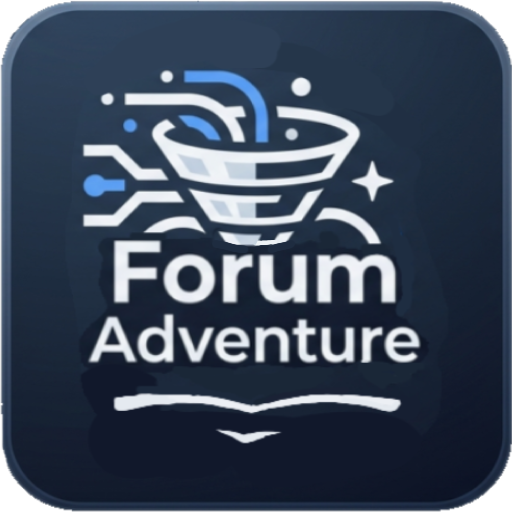
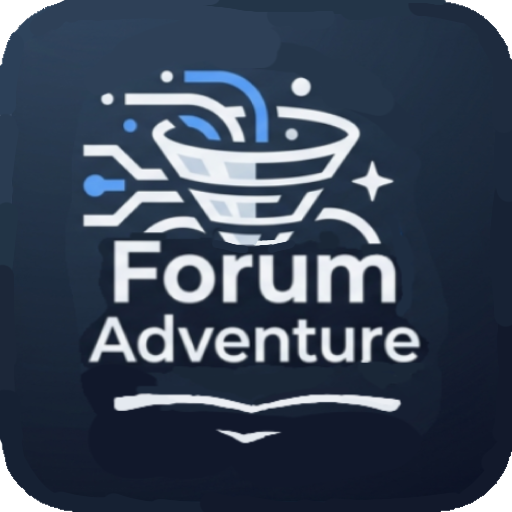
Add files via upload

Changed region(s): [[0.0, 0.0, 1.0, 1.0]]

diff --git a/index.html b/index.html
@@ -924,6 +924,21 @@ body.is-swiping-tabs .post-title {
     </style>
 </head>
 <body>
+    
+    <div id="pwa-install-popup" style="display: none; position: fixed; bottom: 20px; left: 50%; transform: translateX(-50%); background-color: var(--card-bg); border: 1px solid var(--border-color); padding: 16px 20px; border-radius: 16px; box-shadow: 0 10px 25px -5px rgba(0, 0, 0, 0.3); z-index: 9999; width: calc(100% - 40px); max-width: 400px; box-sizing: border-box; align-items: center; justify-content: space-between; gap: 12px; animation: fadeIn 0.4s ease-in-out;">
+    <div style="display: flex; align-items: center; gap: 12px; min-width: 0;">
+        <img src="favicon.png" alt="Logo" style="width: 40px; height: 40px; border-radius: 8px; flex-shrink: 0;">
+        <div style="min-width: 0;">
+            <p style="margin: 0; font-weight: 600; font-size: 14px; color: var(--text-color); white-space: nowrap; overflow: hidden; text-overflow: ellipsis;">Forum Adventure</p>
+            <p style="margin: 2px 0 0 0; font-size: 12px; color: var(--sub-text); white-space: nowrap; overflow: hidden; text-overflow: ellipsis;" data-i18n="pwa_install_desc">Add to ome screen!</p>
+        </div>
+    </div>
+    <div style="display: flex; gap: 8px; flex-shrink: 0;">
+        <button id="pwa-close-btn" style="background: transparent; border: 1px solid var(--border-color); color: var(--sub-text); padding: 6px 12px; border-radius: 20px; font-size: 12px; font-weight: 500; cursor: pointer;">Later</button>
+        <button id="pwa-install-btn" style="background-color: var(--accent-color); border: none; color: white; padding: 6px 16px; border-radius: 20px; font-size: 12px; font-weight: 600; cursor: pointer;">Add now</button>
+    </div>
+</div>
+
 
     <div class="top-bar">
         <div class="sub-links-container">
@@ -1018,6 +1033,8 @@ body.is-swiping-tabs .post-title {
         import_invalid: "File dữ liệu không hợp lệ hoặc bị lỗi!",
         import_empty: "File dữ liệu trống!",
         confirm_import: "Hành động này sẽ ghi đè lên danh sách yêu thích hiện tại. Bạn có chắc chắn muốn tiếp tục?",
+                pwa_install_desc: "Thêm vào màn hình chính!",
+
                 footer_copyright: "© 2026 Forum Adventure",
         footer_author: "Made with ❤️ bởi Ncox | Kết nối cộng đồng diễn đàn",
         footer_terms: "Điều khoản sử dụng & Miễn trừ trách nhiệm",
@@ -1054,6 +1071,8 @@ body.is-swiping-tabs .post-title {
         import_invalid: "Invalid data file or corrupted!",
         import_empty: "Data file is empty!",
         confirm_import: "This will overwrite your current favorites. Do you want to proceed?",
+                pwa_install_desc: "Add to Home screen!",
+
                 footer_copyright: "© 2026 Forum Adventure",
         footer_author: "Made with ❤️ by Ncox | Connecting Forum Communities",
         footer_terms: "Terms of Service & Disclaimer",
@@ -1237,16 +1256,26 @@ updateThemeUI(savedTheme);
                     </div>
                 `;
 
-                // Thêm logic giả lập thanh tiến trình chạy từ 0 đến 95%
-                let progress = 0;
-                const progressBar = document.getElementById('progressBar');
-                window.progressInterval = setInterval(() => {
-                    if (progress < 95) {
-                        progress += Math.random() * 15; // Tốc độ tăng ngẫu nhiên
-                        if (progress > 95) progress = 95;
-                        if (progressBar) progressBar.style.width = `${progress}%`;
-                    }
-                }, 150);
+            // Thêm logic giả lập thanh tiến trình chạy thông minh (0 -> 85 nhanh, 85 -> 95 siêu chậm)
+let progress = 0;
+const progressBar = document.getElementById('progressBar');
+window.progressInterval = setInterval(() => {
+    if (progress < 85) {
+        // Giai đoạn 1: Chạy ngẫu nhiên nhanh đến mốc 85%
+        progress += Math.random() * 15; 
+        if (progress > 85) progress = 85;
+    } else if (progress >= 85 && progress < 95) {
+        // Giai đoạn 2: Hãm phanh từ 85% đến 95% chạy cực chậm để chống cảm giác bị đơ máy
+        progress += Math.random() * 0.4; 
+        if (progress > 95) progress = 95;
+    }
+
+    // Cập nhật thanh tiến trình lên giao diện
+    if (progressBar) progressBar.style.width = `${progress}%`;
+}, 150);
+
+
+
 
                 masterData = { vn: {}, int: {} };
                 const suffix = `?t=${Date.now()}`;
@@ -2268,6 +2297,57 @@ slider.addEventListener('touchend', () => {
     const alertMessage = languages[currentLang]['footer_alert_text'];
     alert(alertMessage);
 }
+
+    
+    // Logic xử lý Popup cài đặt PWA (App)
+let deferredPrompt;
+const installPopup = document.getElementById('pwa-install-popup');
+const installBtn = document.getElementById('pwa-install-btn');
+const closeBtn = document.getElementById('pwa-close-btn');
+
+window.addEventListener('beforeinstallprompt', (e) => {
+    // Ngăn trình duyệt hiển thị banner mặc định (trên một số trình duyệt cũ)
+    e.preventDefault();
+    // Lưu lại sự kiện để kích hoạt sau khi người dùng bấm nút
+    deferredPrompt = e;
+    
+    // Kiểm tra xem người dùng trước đó đã bấm "Để sau" trong phiên này chưa
+    if (!sessionStorage.getItem('pwa-dismissed')) {
+        // Hiển thị popup tùy chỉnh dạng flex
+        installPopup.style.display = 'flex';
+    }
+});
+
+// Xử lý khi người dùng bấm nút "Cài đặt"
+installBtn.addEventListener('click', async () => {
+    if (!deferredPrompt) return;
+    
+    // Hiển thị hộp thoại cài đặt gốc của trình duyệt
+    deferredPrompt.prompt();
+    
+    // Chờ người dùng phản hồi (Đồng ý cài đặt hoặc Hủy)
+    const { outcome } = await deferredPrompt.userChoice;
+    console.log(`User response to the install prompt: ${outcome}`);
+    
+    // Xóa sự kiện đã lưu vì nó chỉ dùng được 1 lần
+    deferredPrompt = null;
+    // Ẩn popup
+    installPopup.style.display = 'none';
+});
+
+// Xử lý khi người dùng bấm "Để sau"
+closeBtn.addEventListener('click', () => {
+    installPopup.style.display = 'none';
+    // Lưu trạng thái vào sessionStorage để không làm phiền họ liên tục khi họ chuyển hướng trong phiên truy cập này
+    sessionStorage.setItem('pwa-dismissed', 'true');
+});
+
+// Ẩn popup ngay lập tức nếu ứng dụng đã được cài đặt thành công trước đó
+window.addEventListener('appinstalled', (event) => {
+    console.log('PWA was installed successfully!');
+    installPopup.style.display = 'none';
+    deferredPrompt = null;
+});
 
 
     </script>